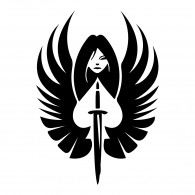
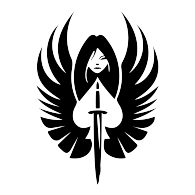
Cambio de imagen Login y centrado

diff --git a/src/views/Login/LoginPage.vue b/src/views/Login/LoginPage.vue
@@ -32,7 +32,7 @@ import { IonPage, IonContent, IonImg, IonItem, IonInput, IonIcon, IonButton } fr
 import { person, lockClosed, cog, eye, eyeOff } from 'ionicons/icons';
 import { onBeforeMount, reactive, ref } from 'vue';
 
-import { OdooResponse, User } from '@/models/models';
+import { OdooResponse } from '@/models/models';
 import { http, presentToast } from '@/common/index'
 
 // Hooks
@@ -107,7 +107,7 @@ async function login() {
     & img {
         margin-left: auto;
         margin-right: auto;
-        // width: 80%;
+        padding-right: 2rem ;
     }
 }
 
